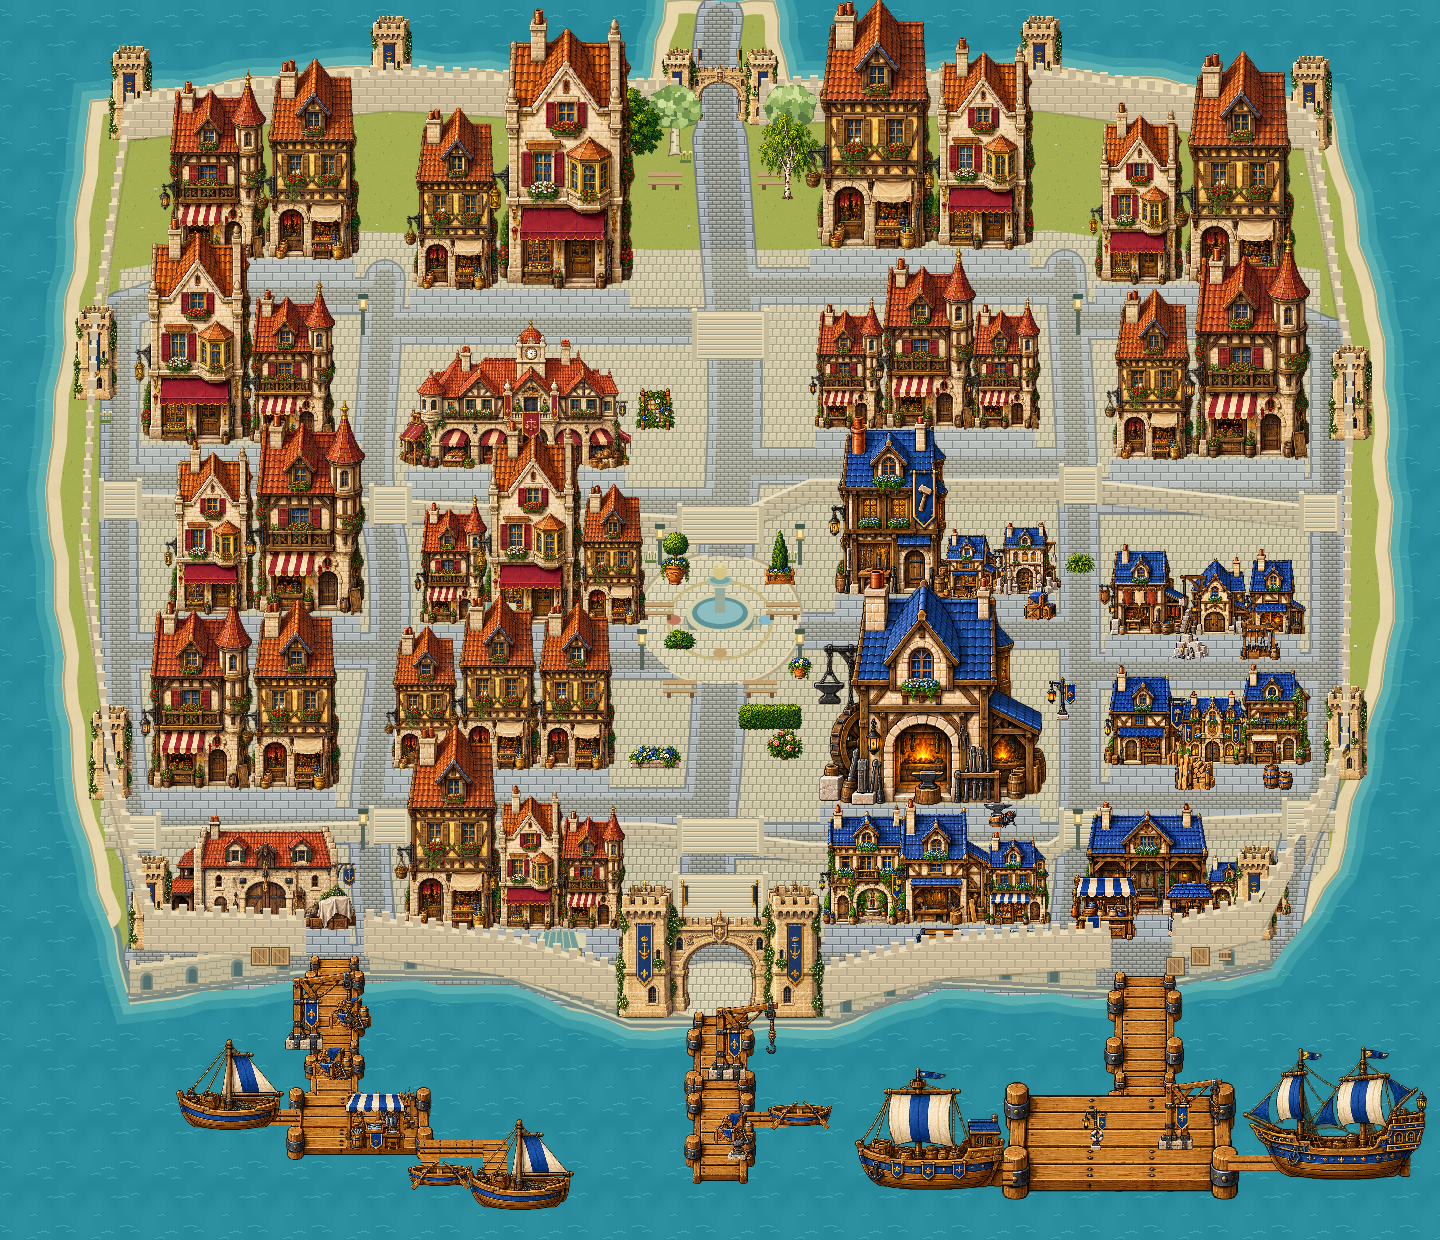
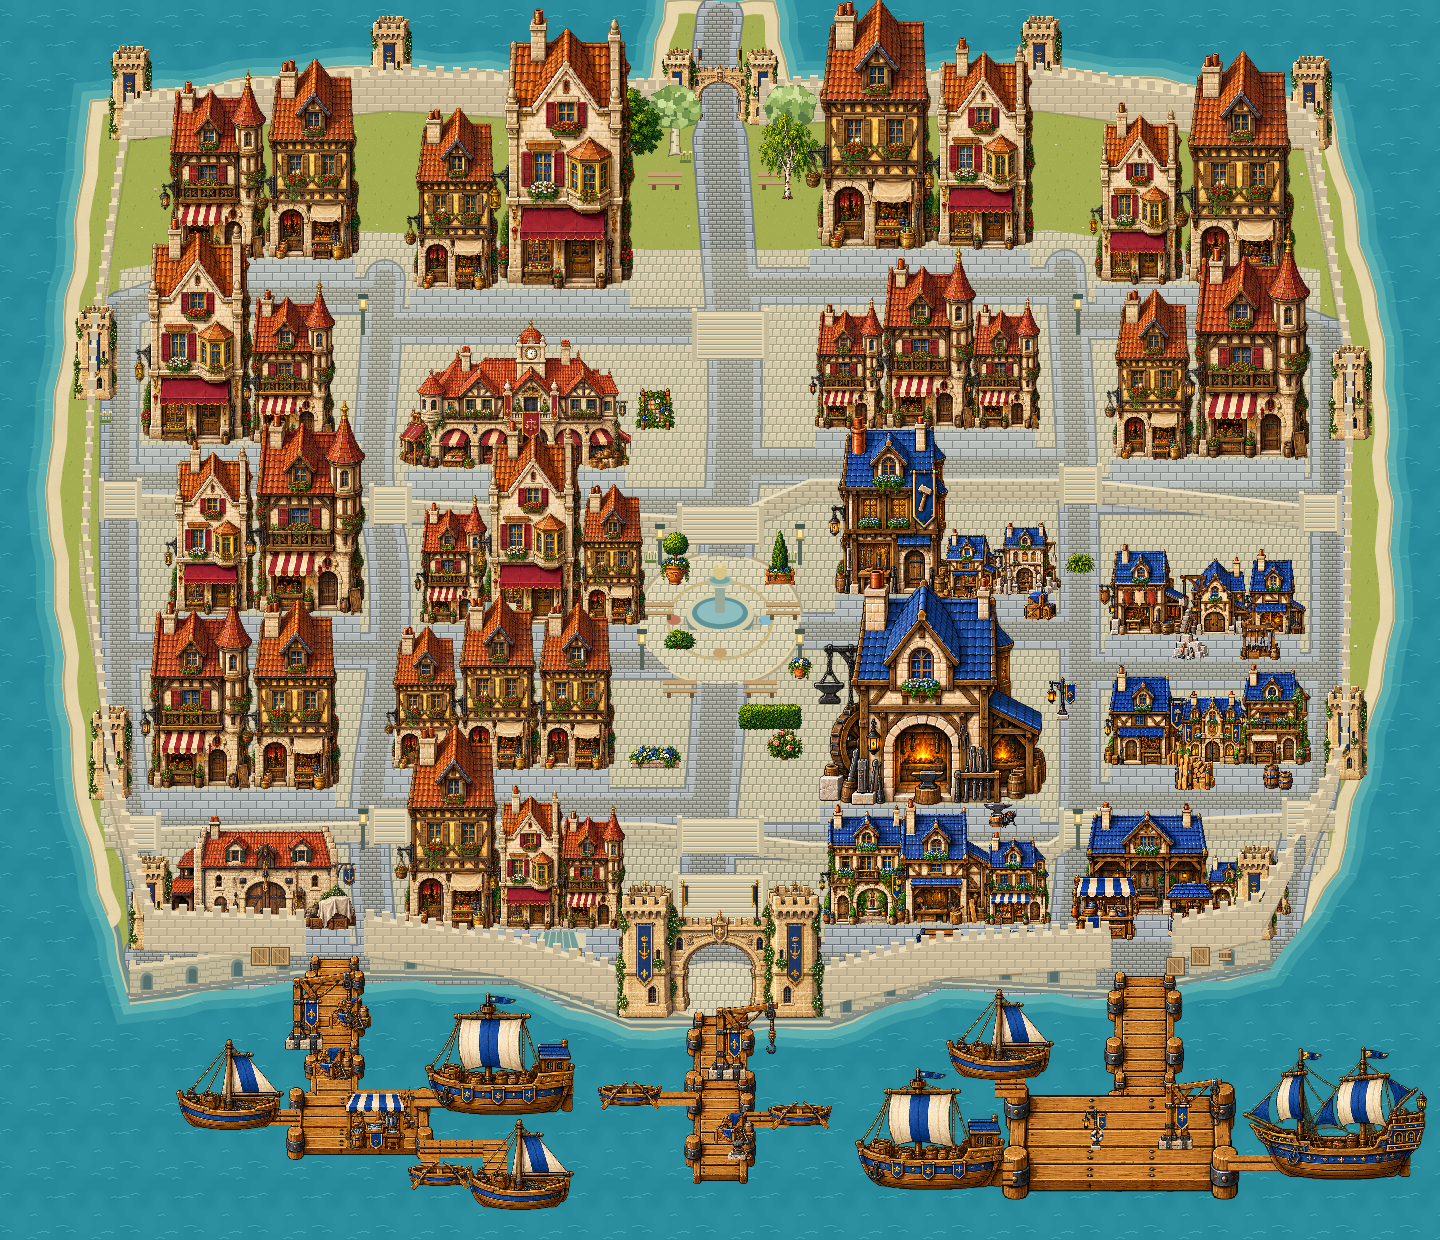
Add three inner harbor boats and safely populate existing saved maps

Changed region(s): [[0.2812, 0.7968, 0.5, 0.9194], [0.6562, 0.7968, 0.75, 0.8887]]

diff --git a/tests/map-editor.test.js b/tests/map-editor.test.js
@@ -358,7 +358,12 @@ test("Les anciennes cartes conservent leur port et le nouveau plan retire les an
   old.objects = old.objects.filter(
     (p) =>
       !p.id.startsWith("comptoir-port-") &&
-      !p.id.startsWith("comptoir-harbor-"),
+      !p.id.startsWith("comptoir-harbor-") &&
+      ![
+        "comptoir-caboteur-bassin",
+        "comptoir-barque-bassin",
+        "comptoir-pecheur-bassin",
+      ].includes(p.id),
   );
   applyMap(old);
   assert.ok(map.onDock(500, 1115));
@@ -392,8 +397,43 @@ test("Reconstruire seulement le port préserve les réglages et les rues d’une
   );
   assert.equal(rebuilt.legacyDocks, false);
   applyMap(rebuilt);
-  assert.equal(map.SHIPS.length, 6);
-  assert.equal(map.DOCKS.length, 21);
+  assert.equal(map.SHIPS.length, 9);
+  assert.equal(map.DOCKS.length, 27);
   assert.equal(map.onDock(500, 1115), false);
+  applyMap(defaultMap);
+});
+
+test("La flotte se complète une seule fois dans une carte sauvegardée sans modifier la ville", () => {
+  const doc = copy(defaultMap);
+  delete doc.fleetVersion;
+  const addedIds = [
+    "comptoir-caboteur-bassin",
+    "comptoir-barque-bassin",
+    "comptoir-pecheur-bassin",
+  ];
+  doc.objects = doc.objects.filter((p) => !addedIds.includes(p.id));
+  const house = doc.objects.find((p) => p.id === "logis-0-0-0");
+  house.scale = 0.9;
+  let raw = JSON.stringify(doc);
+  const storage = {
+    getItem: () => raw,
+    setItem: (key, value) => {
+      raw = value;
+    },
+  };
+  assert.equal(restoreEditedMap(storage), null);
+  const migrated = JSON.parse(raw);
+  assert.deepEqual(
+    migrated.objects.find((p) => p.id === house.id),
+    house,
+  );
+  for (const id of addedIds)
+    assert.ok(migrated.objects.some((p) => p.id === id));
+  assert.equal(migrated.fleetVersion, 1);
+  // An explicit later deletion stays deleted.
+  migrated.objects = migrated.objects.filter((p) => p.id !== addedIds[0]);
+  raw = JSON.stringify(migrated);
+  assert.equal(restoreEditedMap(storage), null);
+  assert.ok(!map.PROPS.some((p) => p.id === addedIds[0]));
   applyMap(defaultMap);
 });

diff --git a/src/dev/map-editor-model.js b/src/dev/map-editor-model.js
@@ -102,9 +102,11 @@ export function resizeBuilding(item, scale) {
   item.scale = Math.round(Math.max(0.25, Math.min(3, scale)) * 100) / 100;
 }
 export let mapRevision = 0;
+let fleetVersion = 1;
 export function captureMap() {
   return {
     schema: 1,
+    fleetVersion,
     portLayout: 2,
     legacyDocks: world.DOCKS.some((d) => d.legacy === true),
     zone: "exile",
@@ -143,6 +145,7 @@ export function rebuildPort(doc) {
   return {
     ...copy(doc),
     portLayout: 2,
+    fleetVersion: 1,
     legacyDocks: false,
     objects: [...kept, ...replacements],
   };
@@ -302,6 +305,7 @@ export function previewMap(doc) {
 }
 function install(doc) {
   const map = previewMap(doc);
+  fleetVersion = doc.fleetVersion ?? 0;
   world.PROPS.splice(0, world.PROPS.length, ...map.PROPS);
   world.DOCKS.splice(0, world.DOCKS.length, ...map.DOCKS);
   world.BUILDINGS.splice(0, world.BUILDINGS.length, ...map.BUILDINGS);
@@ -354,7 +358,31 @@ export const MAP_STORAGE_KEY = "auroria-map-exile-v1";
 export function restoreEditedMap(storage = localStorage) {
   try {
     const raw = storage.getItem(MAP_STORAGE_KEY);
-    if (raw) applyMap(JSON.parse(raw));
+    if (raw) {
+      const doc = JSON.parse(raw);
+      applyMap(doc);
+      if (doc.fleetVersion !== 1) {
+        let candidate = { ...captureMap(), fleetVersion: 1 };
+        const ids = new Set(candidate.objects.map((p) => p.id));
+        for (const ship of world.SHIPS) {
+          if (ids.has(ship.id)) continue;
+          const item = defaultMap.objects.find((p) => p.id === ship.id);
+          const next = {
+            ...candidate,
+            objects: [...candidate.objects, copy(item)],
+          };
+          try {
+            applyMap(next);
+            candidate = next;
+            ids.add(ship.id);
+          } catch {
+            /* Occupied water stays untouched. */
+          }
+        }
+        applyMap(candidate);
+        storage.setItem?.(MAP_STORAGE_KEY, JSON.stringify(candidate));
+      }
+    }
     return null;
   } catch (e) {
     return e.message;

diff --git a/tests/exile.test.js b/tests/exile.test.js
@@ -315,7 +315,7 @@ test("Une ancienne position du grand Comptoir revient au port sans perte de prog
 });
 
 test("Les navires restent dans l’eau sans recouvrir un ponton", () => {
-  assert.equal(SHIPS.length, 6);
+  assert.equal(SHIPS.length, 9);
   for (const p of SHIPS) {
     assert.ok(p.asset.startsWith("harbor-"));
     assert.ok(placementOnLand(p));
@@ -540,7 +540,7 @@ test("Le nouveau port utilise les pontons détaillés et garde la troupe sur le 
   for (const p of s.team) assert.ok(canWalkExile(p.x, p.y));
 });
 
-test("Les ponts des six bateaux se rejoignent avec le cheminement réel des alliés", async () => {
+test("Les ponts des neuf bateaux se rejoignent avec le cheminement réel des alliés", async () => {
   const { findPath } = await import("../src/ai/companions.js");
   const stand = Object.assign((x, y) => canWalkExile(x, y), {
     bounds: MAP_SIZE,

diff --git a/src/world/exile-map.js b/src/world/exile-map.js
@@ -73,6 +73,9 @@ export const SHIPS = [
   cityAsset("harbor-caravel", 1335, 1180, "comptoir-caravelle"),
   cityAsset("harbor-fishing-boat", 520, 1210, "comptoir-voilier-cotier"),
   cityAsset("harbor-rowboat", 800, 1130, "comptoir-barque-arrivee"),
+  cityAsset("harbor-merchant-cog", 500, 1115, "comptoir-caboteur-bassin"),
+  cityAsset("harbor-rowboat", 630, 1110, "comptoir-barque-bassin"),
+  cityAsset("harbor-fishing-boat", 1000, 1080, "comptoir-pecheur-bassin"),
 ];
 export const QUAY_EDGE = [
   [130, 997],

diff --git a/src/world/comptoir-dressing.js b/src/world/comptoir-dressing.js
@@ -105,6 +105,9 @@ export function portWalkways() {
 
 export function shipGangways() {
   const routes = [
+    [354, 1090, 108, 18, "comptoir-caboteur-bassin", "inner-cog"],
+    [642, 1092, 54, 14, "comptoir-barque-bassin", "inner-rowboat"],
+    [995, 1070, 30, 28, "comptoir-pecheur-bassin", "inner-fisher"],
     [745, 1112, 42, 16, "comptoir-barque-arrivee", "arrival-boat"],
     [969, 1162, 44, 24, "comptoir-cogue", "merchant"],
     [1228, 1155, 60, 16, "comptoir-caravelle", "caravel"],

diff --git a/src/rendering/exile.js b/src/rendering/exile.js
@@ -526,7 +526,12 @@ export function createExileEnvironment(mapOverride = map) {
       },
     };
   });
-  for (const p of props.filter((p) => p.groundLayer)) p.draw(g);
+  const floor = props.filter((p) => p.groundLayer);
+  for (const p of floor.filter((p) => p.placement !== "water")) p.draw(g);
+  for (const p of floor
+    .filter((p) => p.placement === "water")
+    .sort((a, b) => a.y - b.y))
+    p.draw(g);
   return {
     ground,
     props: [...props, ...rampartPieces(map)],

diff --git a/README.md b/README.md
@@ -558,7 +558,7 @@ Après le tutoriel, ouvrez **Monde → Comptoir → Embarquer pour le Comptoir**
 
 La ville s’étend sur **1 440 × 1 240 pixels**, avec caméra mobile, 45 bâtiments, les quinze façades d’artisans et tous les nouveaux accessoires, quartiers marchands à l’ouest et bleu au sud-est, ruelles courtes et quais à arcades, jardins, place de la fontaine, port et marché. Approchez les habitants puis utilisez **F**, ou cliquez/touchez-les. Forge, animalerie, bricolage, scierie et fontaine sont utilisables. Maëla et Oriel vendent du matériel de voyage ; Silo rachète les ressources ordinaires et rares ; l’auberge restaure la troupe contre 5 or.
 
-Des remparts crénelés, dix tours d’angle et deux portes entourent la ville. Les îlots sont décalés, les façades ont des largeurs variées et deux terrasses se franchissent par des escaliers. La porte du port, les grues de chargement, les étals et six embarcations donnent une identité maritime au Comptoir.
+Des remparts crénelés, dix tours d’angle et deux portes entourent la ville. Les îlots sont décalés, les façades ont des largeurs variées et deux terrasses se franchissent par des escaliers. La porte du port, les grues de chargement, les étals et neuf embarcations donnent une identité maritime au Comptoir.
 
 Le bouton **Plan du Comptoir** montre les quartiers et bonnes adresses. L’onglet **Pays des Slimes** conserve la carte illustrée de référence. Votre position dans la ville est sauvegardée. Les outils dev proposent des accès directs au port, à la place, aux artisans et aux jardins.
 
@@ -588,7 +588,7 @@ La palette inclut également **15 bâtiments du Quartier des Artisans** : forge 
 
 ### Comptoir reconstruit avec les nouveaux assets
 
-Le plan livré utilise les **51 nouveaux modèles** : 15 bâtiments bleus au sud-est, 12 accessoires d’artisans, 12 éléments de végétation et 12 assets maritimes, dont quatre modèles de bateaux déclinés en six embarcations, et huit segments de ponton pour les trois débarcadères. Les habitations au nord-est adoptent des façades chaudes pour distinguer le quartier résidentiel du quartier bleu. La place centrale et les accès aux dix services sont conservés. L’enceinte reste continue hors de ses portes et des accès aux pontons.
+Le plan livré utilise les **51 nouveaux modèles** : 15 bâtiments bleus au sud-est, 12 accessoires d’artisans, 12 éléments de végétation et 12 assets maritimes, dont quatre modèles de bateaux déclinés en neuf embarcations, et huit segments de ponton pour les trois débarcadères. Les habitations au nord-est adoptent des façades chaudes pour distinguer le quartier résidentiel du quartier bleu. La place centrale et les accès aux dix services sont conservés. L’enceinte reste continue hors de ses portes et des accès aux pontons.
 
 Au nord, une nouvelle route franchit la porte et rejoint le départ vers le sanctuaire du Roi Slime. La destination est signalée mais la future zone n’est pas encore ouverte. **Développement → Outils dev → Voyages → Comptoir · Porte du Roi** permet de vérifier ce départ.
 
@@ -596,8 +596,10 @@ Si une ancienne carte personnalisée est chargée dans votre navigateur, elle re
 
 ### Nouveau port détaillé
 
-Le port est reconstruit entièrement avec les assets maritimes : débarcadère central d’arrivée, quai de pêche à l’ouest et plateforme de chargement à l’est. Huit segments de ponton détaillés remplacent les anciens planchers procéduraux ; grues, cargaisons, filets, cordages, éclairage et poissonnerie occupent les quais. Six embarcations restent dans l’eau : deux barques, deux voiliers de pêche, une cogue et une caravelle.
+Le port est reconstruit entièrement avec les assets maritimes : débarcadère central d’arrivée, quai de pêche à l’ouest et plateforme de chargement à l’est. Huit segments de ponton détaillés remplacent les anciens planchers procéduraux ; grues, cargaisons, filets, cordages, éclairage et poissonnerie occupent les quais. Neuf embarcations restent dans l’eau : trois barques, trois voiliers de pêche, deux cogues et une caravelle.
 
 Pour intégrer seulement ce port à une carte locale personnalisée : **Éditeur → Nouveau port → Appliquer et sauvegarder**. Le reste de la ville et ses rues sont conservés ; l’opération peut être annulée dans le brouillon. Les anciens fichiers de carte gardent leurs quais d’origine jusqu’à cette reconstruction, avec conservation de la progression du personnage.
 
-Les pontons, passerelles et **ponts des bateaux se comportent comme du sol praticable**, avec un dessin sous les personnages. Les six bateaux du plan sont reliés aux quais ; les voiles ne constituent pas une surface de marche. La palette **Port et bateaux** propose aussi une **Passerelle de bateau**, qui réutilise les planches du ponton sans poteaux aux extrémités pour raccorder des surfaces. Les anciennes surfaces de quai utilisent désormais cette texture issue des assets au lieu du dessin procédural. Pour mettre à jour un port déjà sauvegardé : **Éditeur → Nouveau port → Appliquer et sauvegarder**.
+Les pontons, passerelles et **ponts des bateaux se comportent comme du sol praticable**, avec un dessin sous les personnages. Les neuf bateaux du plan sont reliés aux quais ; les voiles ne constituent pas une surface de marche. La palette **Port et bateaux** propose aussi une **Passerelle de bateau**, qui réutilise les planches du ponton sans poteaux aux extrémités pour raccorder des surfaces. Les anciennes surfaces de quai utilisent désormais cette texture issue des assets au lieu du dessin procédural. Pour mettre à jour un port déjà sauvegardé : **Éditeur → Nouveau port → Appliquer et sauvegarder**.
+
+La flotte du port compte neuf embarcations, avec trois ajouts dans le bassin : une cogue à l’ouest, une barque près de l’arrivée et un voilier de pêche à l’est. Les cartes locales antérieures reçoivent une mise à jour additive de flotte : seuls les bateaux manquants dont l’emplacement est libre sont ajoutés, sans déplacer les autres objets ni reconstruire les quais. Cette opération est enregistrée une fois ; une suppression volontaire ultérieure reste respectée.

diff --git a/docs/world/PAYS_DES_SLIMES.md b/docs/world/PAYS_DES_SLIMES.md
@@ -29,7 +29,7 @@ Les canaux, fortifications, routes et ateliers témoignent d’abord de la const
 
 Carte extérieure de 1 440 × 1 240 pixels monde, avec caméra à l’échelle des personnages. 45 bâtiments : façades mitoyennes, halle marchande, forge, entrepôt, capitainerie, auberge et services pour les aventuriers. Le port reste au sud du pays, avec la place du Refuge et la route du sanctuaire dans son axe central.
 
-- **Sud :** trois pontons, liaison entre quais, six embarcations, grues de chargement, porte du Refuge et quais de pierre à arcades.
+- **Sud :** trois pontons, liaison entre quais, neuf embarcations, grues de chargement, porte du Refuge et quais de pierre à arcades.
 - **Centre :** place du Refuge, fontaine du renouveau, mosaïque aux quatre couleurs et commerces.
 - **Ouest :** quartier des marchands, halle marchande, enchanteur, échoppe et animalerie.
 - **Sud-est :** quartier bleu des artisans, avec quinze nouveaux bâtiments, la forge, l’atelier de Tessa, la scierie et la capitainerie.
@@ -61,4 +61,4 @@ Le port, la terrasse intermédiaire et la ville haute forment trois paliers. Les
 Les vingt fronts bâtis ont désormais des retraits, des largeurs de lots et des alignements propres. Les rues sont retracées entre eux. Les habitants se tiennent sur un espace d’approche libre devant leurs commerces et les promeneurs démarrent uniquement sur un point de rue praticable.
 
 
-La disposition utilise désormais tous les nouveaux modèles de bâtiments, accessoires, verdure et port. Les six embarcations sont des sprites détaillés et les trois débarcadères sont composés de huit segments praticables. Le chemin royal traverse la porte nord et rejoint une avancée de terre réservée au futur raccord avec le sanctuaire. Ce raccord n’ouvre pas encore la zone du Roi Slime et ne modifie pas son histoire ni les conditions de son réveil.
+La disposition utilise désormais tous les nouveaux modèles de bâtiments, accessoires, verdure et port. Les neuf embarcations sont des sprites détaillés et les trois débarcadères sont composés de huit segments praticables. Le chemin royal traverse la porte nord et rejoint une avancée de terre réservée au futur raccord avec le sanctuaire. Ce raccord n’ouvre pas encore la zone du Roi Slime et ne modifie pas son histoire ni les conditions de son réveil.

diff --git a/src/assets/exile/README.md b/src/assets/exile/README.md
@@ -29,4 +29,4 @@ L’eau (`water`, `harbor-water`) et le sable (`sand`, `wet-sand`, `dirt`) utili
 Le Comptoir conserve sa maçonnerie au sud ; les côtes naturelles ont une bande de sable fin/humide et des eaux peu profondes. Le jardin utilise le sable sur ses rives et une variante plus ocre sur les chemins. Les matériaux spécifiques aux autres biomes restent distincts. Ces changements ne déplacent pas le rivage physique ni les collisions des quais, des bateaux et des pontons.
 
 
-Les bateaux utilisent maintenant une zone de pont praticable (`walkSurface`) et une empreinte de coque séparée (`hullFootprint`). Les passerelles utilisent la même planche de sprites, sans nouvelle image : les planches centrales du ponton sont mises en motif pour remplacer les anciennes textures et raccorder les quais comme des routes. Les six bateaux et les sept passerelles du plan sont dessinés dans le sol avant les acteurs. La palette contient un modèle réutilisable « Passerelle de bateau » en plus des douze objets de la planche. Les anciens fichiers de carte conservent leurs emplacements ; « Nouveau port » ajoute les raccordements du nouveau plan sans réinitialiser la ville.
+Les bateaux utilisent maintenant une zone de pont praticable (`walkSurface`) et une empreinte de coque séparée (`hullFootprint`). Les passerelles utilisent la même planche de sprites, sans nouvelle image : les planches centrales du ponton sont mises en motif pour remplacer les anciennes textures et raccorder les quais comme des routes. Les neuf bateaux et les dix passerelles du plan sont dessinés dans le sol avant les acteurs. La palette contient un modèle réutilisable « Passerelle de bateau » en plus des douze objets de la planche. Les anciens fichiers de carte conservent leurs emplacements ; « Nouveau port » ajoute les raccordements du nouveau plan sans réinitialiser la ville.
